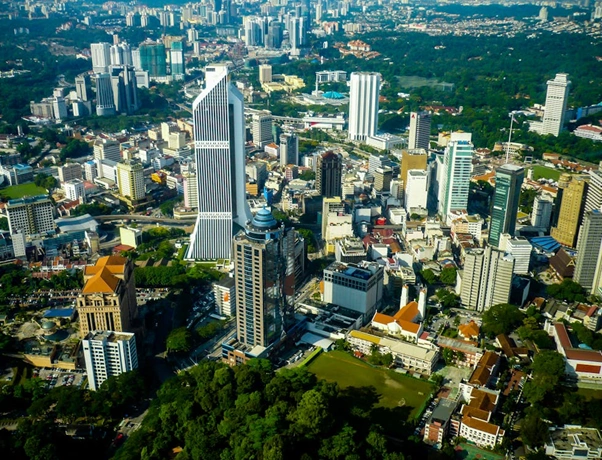
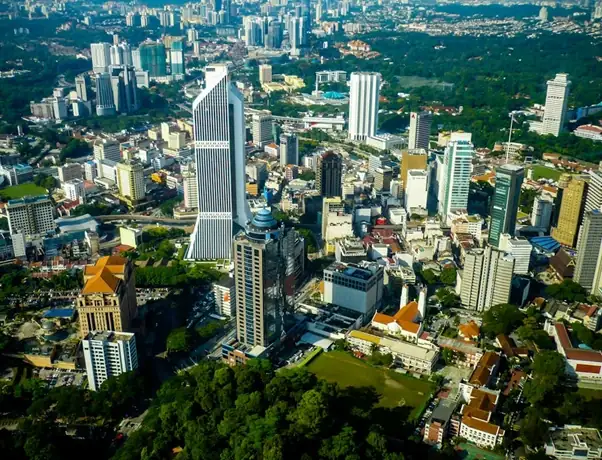
Optimize oversized SEO images

diff --git a/app/components/HomeBanner.tsx b/app/components/HomeBanner.tsx
@@ -143,7 +143,7 @@ export default function HomeBanner() {
         <div className="rounded-[2rem] border border-white/10 bg-white/95 p-5 text-slate-900 shadow-2xl shadow-black/20">
           <div className="overflow-hidden rounded-[1.5rem]">
             <Image
-              src="/assests/home-page-banner-2.png"
+              src="/assests/home-page-banner-2.webp"
               alt="MBBS abroad student consultation"
               width={1200}
               height={800}

diff --git a/app/data/siteContent.ts b/app/data/siteContent.ts
@@ -386,7 +386,7 @@ export const galleryImages = [
     title: "Guided admissions support",
   },
   {
-    src: "/assests/home-page-banner-2.png",
+    src: "/assests/home-page-banner-2.webp",
     alt: "MBBS abroad banner showing student support",
     title: "Student-first counseling",
   },
